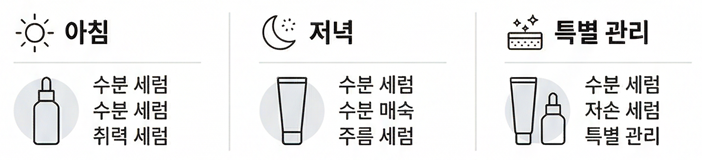
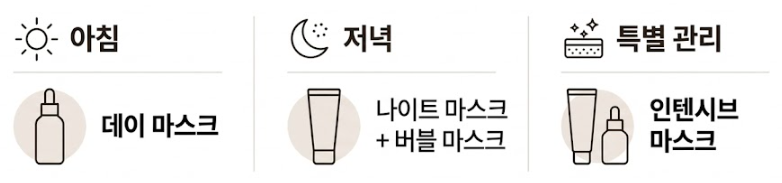
4.08 수정

diff --git a/src/App.js b/src/App.js
@@ -342,7 +342,7 @@ function Result() {
 
         {/* 스킨케어 가이드 */}
         <div style={styles.guideCard}>
-          <h3 style={{ margin: "0px 0px 10px 0px", fontSize: 16 }}>개인 맞춤 스킨케어 가이드</h3>
+          <h3 style={{ margin: "0px 0px 10px 0px", fontSize: 16 }}>탄력 리프팅 맞춤 가이드</h3>
 
           <img
             src="/skin.png"
